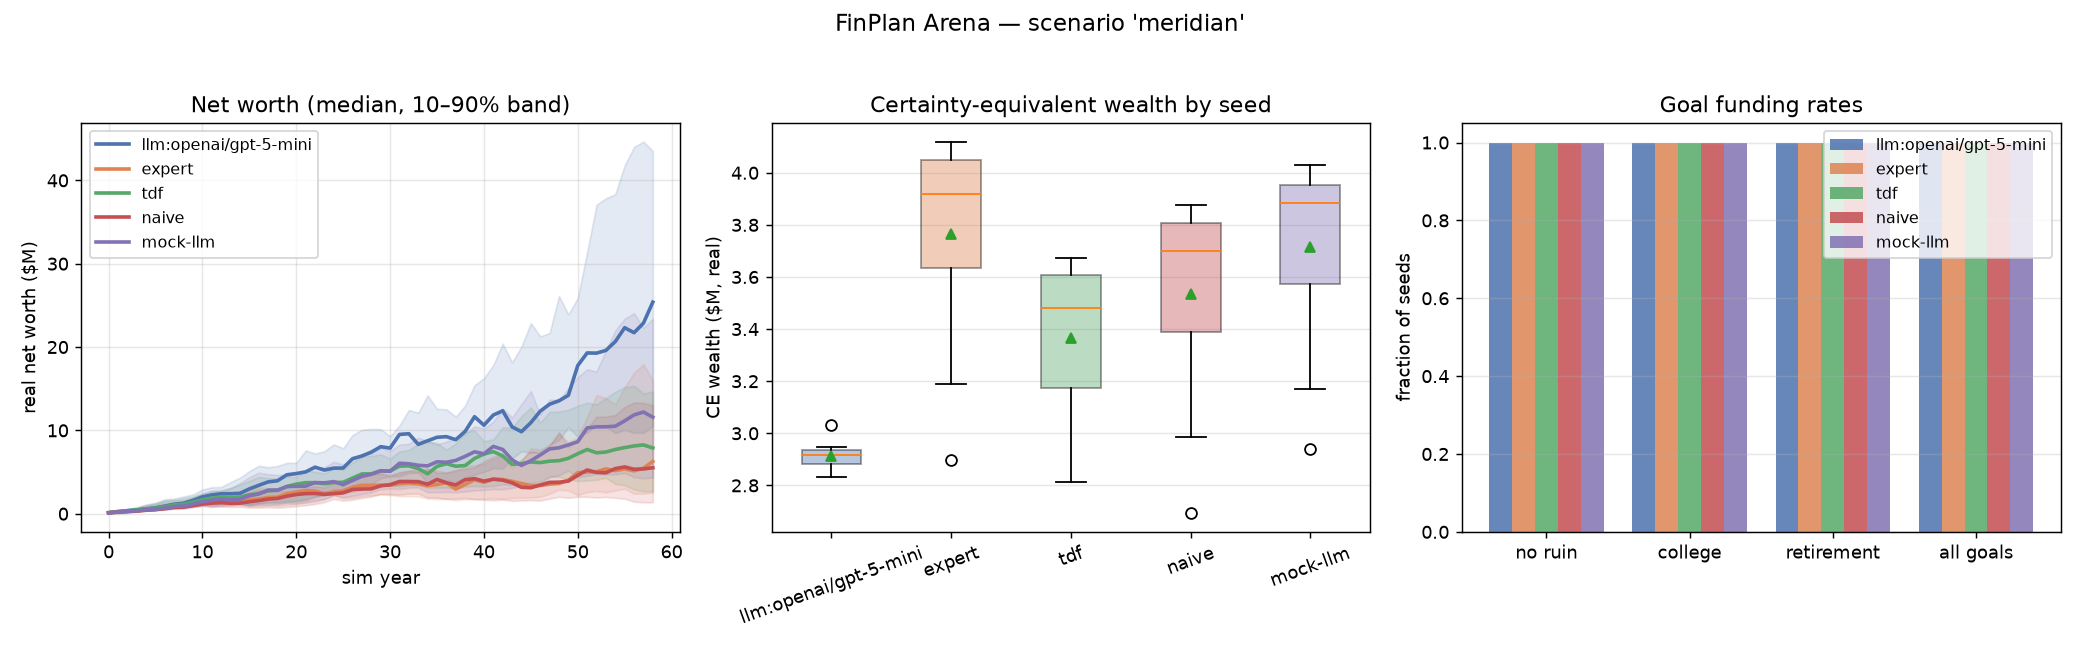
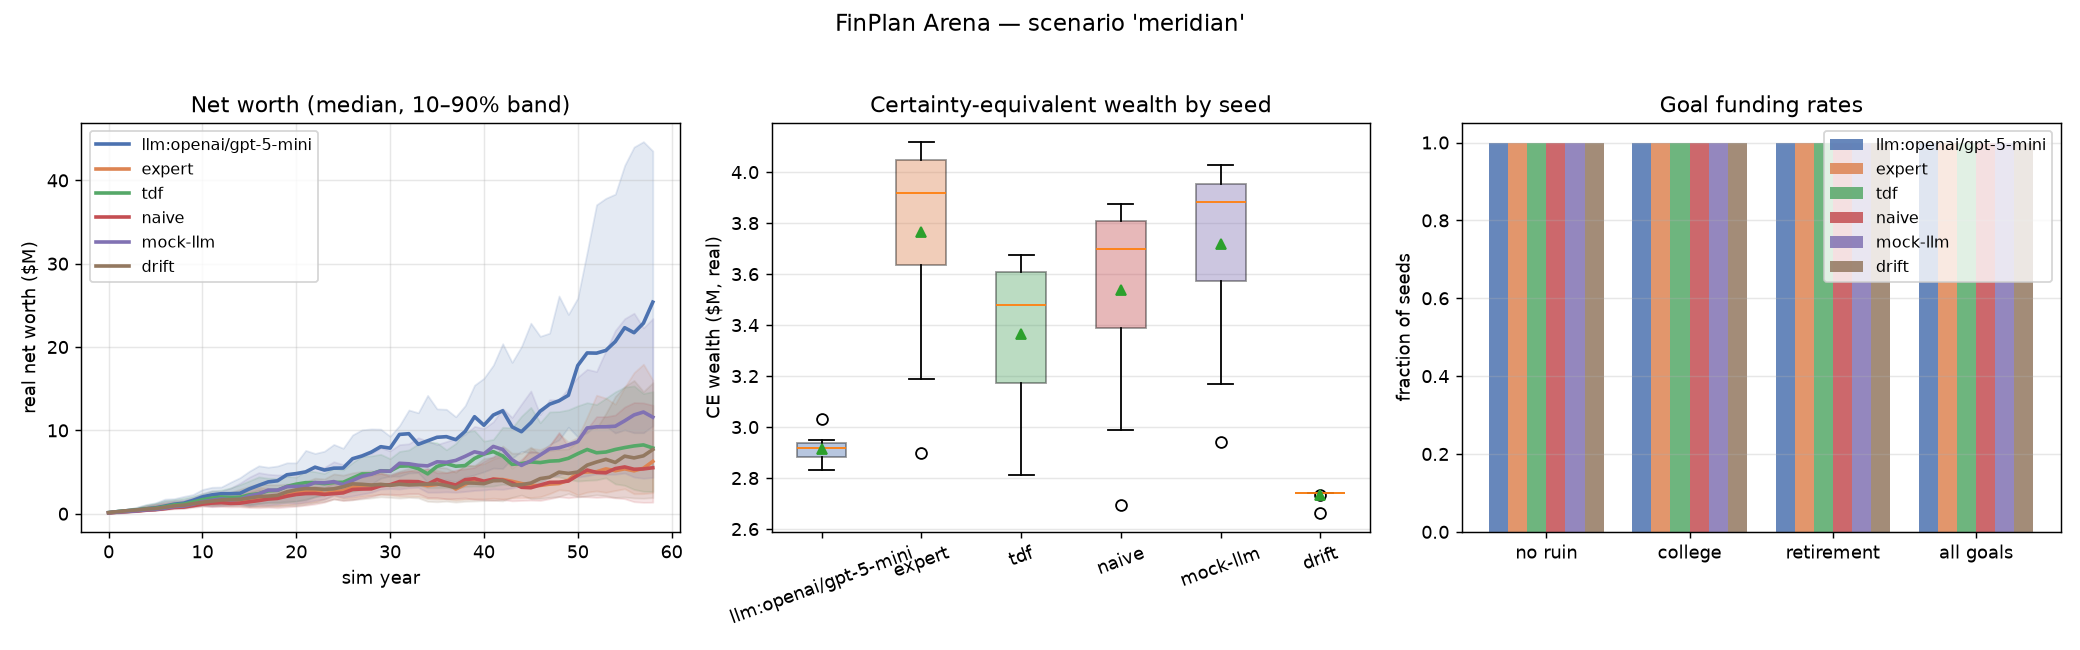
Add drift baseline: the do-nothing floor of the agent ladder
DriftAgent never contributes, withdraws, converts, claims, or touches
allocations — spending sits at the scenario floor and only the engine's
automatic mechanics act. On meridian it scores a median CE of $2.74M vs
the expert's $3.92M, which locates gpt-5-mini ($2.92M) barely above
doing nothing at all. Comparison artifacts regenerated with the new
column.

Claude-Session: https://claude.ai/code/session_019dGwkaESiXphr4D4jjDQM2

diff --git a/finplan_arena/agents/baselines.py b/finplan_arena/agents/baselines.py
@@ -1,7 +1,10 @@
 """Rule-based baseline agents.
 
-Three personas an LLM should be measured against:
+Four personas an LLM should be measured against:
 
+* ``drift``   — absolute passivity: no contributions, no allocation changes,
+                spending pinned at the floor; the engine's forced cascade,
+                RMD enforcement, and age-70 SS auto-claim do everything.
 * ``tdf``     — target-date-fund saver: (110 − age) glide path, flat 15%
                 gross savings rate, straight-line 529 funding, claims SS at
                 FRA (67), 4% rule in retirement.
@@ -684,8 +687,36 @@ class FourPercentDrawdownAgent(BaseAgent):
         return d
 
 
+class DriftAgent(BaseAgent):
+    """Absolute passivity: the household never lifts a finger.
+
+    No contributions (even the employer match is forgone), no voluntary
+    withdrawals, no conversions, no harvesting, no claims, and allocations
+    are never touched (every account keeps its scenario-initial targets).
+    Salary piles up in cash; in retirement the forced-liquidation cascade
+    pays the bills, RMDs are engine-enforced, and Social Security arrives
+    only via the engine's forced claim at 70. The single non-default field
+    is discretionary spending, pinned at the scenario floor so the agent
+    stays zero-violation (a literal 0 would just be clipped to the floor
+    and flagged every year).
+
+    This is the true bottom anchor of the ladder: an LLM's lift over
+    ``drift`` measures the value of doing anything at all."""
+
+    name = "drift"
+
+    def decide(self, obs: Observation) -> Decision:
+        st = _st(obs)
+        return Decision(
+            rationale="Drift baseline: touch nothing; spend the floor; the "
+                      "engine's forced cascade, RMDs, and age-70 SS claim "
+                      "do the rest.",
+            annual_spending_discretionary=round(st.discretionary_floor, 2))
+
+
 BASELINES: dict[str, type[BaseAgent]] = {
     "tdf": TargetDateAgent,
     "naive": NaiveAgent,
     "expert": RuleBasedExpertAgent,
+    "drift": DriftAgent,
 }

diff --git a/reports/openrouter_gpt5mini/README.md b/reports/openrouter_gpt5mini/README.md
@@ -1,34 +1,41 @@
 # Live evaluation: OpenRouter `openai/gpt-5-mini` on `meridian`
 
-Live LLM run via OpenRouter (`openai/gpt-5-mini`, config in `configs/openrouter_gpt5mini.json`), 12 paired seeds on the `meridian` scenario, compared against the `expert`, `tdf`, `naive`, and `mock-llm` baselines on the same seeds. Agent artifacts: comparison table/JSON/charts, per-run summaries in `summaries/`, and a deep-dive report in `gpt5mini_report.md`.
+Live LLM run via OpenRouter (`openai/gpt-5-mini`, config in `configs/openrouter_gpt5mini.json`), 12 paired seeds on the `meridian` scenario, compared against the `expert`, `tdf`, `naive`, `mock-llm`, and `drift` baselines on the same seeds. Agent artifacts: comparison table/JSON/charts, per-run summaries in `summaries/`, and a deep-dive report in `gpt5mini_report.md`.
 
 **LLM run health:** total `llm_schema_fallbacks` across all 12 trials: **0**. Total violations: **59** (mean 4.92/trial), dominated by `ira_earned_income` (24) and `not_working` (23) — i.e. attempting IRA contributions in retirement years with no earned income — plus a handful of contribution-limit, spending-bounds, and MAGI-phaseout misses.
 
 ## Comparison table
 
 ```
-metric                            llm:openai/gpt-5-mini            expert               tdf             naive          mock-llm
--------------------------------------------------------------------------------------------------------------------------------
-seeds                                             12                12                12                12                12
-median CE wealth (real $)                  2,918,574         3,916,983         3,480,595         3,699,404         3,882,292
-p10 CE wealth (real $)                     2,839,176         3,205,454         2,930,098         3,010,253         3,192,880
-median CE annual (real $/yr)                 104,957           140,862           125,168           133,037           139,614
-median terminal wealth (real $)           25,391,642         6,274,092         7,890,045         5,518,105        11,586,324
-P(ruin before 95)                               0.0%              0.0%              0.0%              0.0%              0.0%
-P(all goals met)                              100.0%            100.0%            100.0%            100.0%            100.0%
-P(college goal met)                           100.0%            100.0%            100.0%            100.0%            100.0%
-P(retirement goal met)                        100.0%            100.0%            100.0%            100.0%            100.0%
-mean lifetime taxes (real $)               4,774,448         2,238,373         3,517,208         2,575,617         3,520,217
-mean lifetime penalties (real $)                   0                 0               387                 0             1,523
-mean violations / trial                         4.92              0.00              0.00              0.00              0.83
-mean decision churn                            0.000             0.008             0.007             0.000             0.003
+metric                            llm:openai/gpt-5-mini            expert               tdf             naive          mock-llm             drift
+-------------------------------------------------------------------------------------------------------------------------------------------------
+seeds                                             12                12                12                12                12                12
+median CE wealth (real $)                  2,918,574         3,916,983         3,480,595         3,699,404         3,882,292         2,742,430
+p10 CE wealth (real $)                     2,839,176         3,205,454         2,930,098         3,010,253         3,192,880         2,734,345
+median CE annual (real $/yr)                 104,957           140,862           125,168           133,037           139,614            98,623
+median terminal wealth (real $)           25,391,642         6,274,092         7,890,045         5,518,105        11,586,324         7,702,151
+P(ruin before 95)                               0.0%              0.0%              0.0%              0.0%              0.0%              0.0%
+P(all goals met)                              100.0%            100.0%            100.0%            100.0%            100.0%            100.0%
+P(college goal met)                           100.0%            100.0%            100.0%            100.0%            100.0%            100.0%
+P(retirement goal met)                        100.0%            100.0%            100.0%            100.0%            100.0%            100.0%
+mean lifetime taxes (real $)               4,774,448         2,238,373         3,517,208         2,575,617         3,520,217         2,815,437
+mean lifetime penalties (real $)                   0                 0               387                 0             1,523                 0
+mean violations / trial                         4.92              0.00              0.00              0.00              0.83              0.00
+mean decision churn                            0.000             0.008             0.007             0.000             0.003             0.000
 
 Paired differences vs 'expert' on ce_wealth (positive = better than expert; bootstrap 95% CI):
   llm:openai/gpt-5-mini mean diff       -852,962   CI [-1,031,441, -642,080]   win rate 0.0%   (SIGNIFICANT, n=12)
   tdf          mean diff       -399,191   CI [-469,752, -318,153]   win rate 0.0%   (SIGNIFICANT, n=12)
   naive        mean diff       -229,705   CI [-269,797, -191,269]   win rate 0.0%   (SIGNIFICANT, n=12)
   mock-llm     mean diff        -49,267   CI [-86,221, -13,243]   win rate 16.7%   (SIGNIFICANT, n=12)
+  drift        mean diff     -1,030,474   CI [-1,221,356, -805,884]   win rate 0.0%   (SIGNIFICANT, n=12)
 ```
+
+`drift` is the do-nothing floor added after the initial run: no contributions, no
+allocation changes, spending at the scenario floor — only the engine's automatic
+mechanics (forced liquidation, RMDs, age-70 SS claim) act. gpt-5-mini's paired
+lift over drift is just ~$178k of CE wealth, i.e. its active management captured
+about 17% of the expert-vs-drift gap.
 
 ## Reading
 
